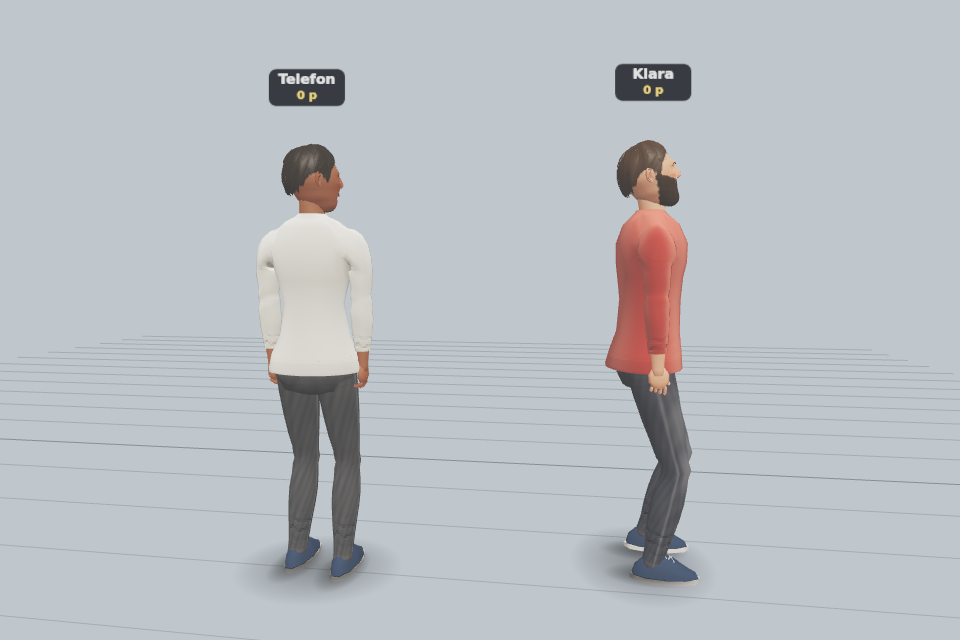
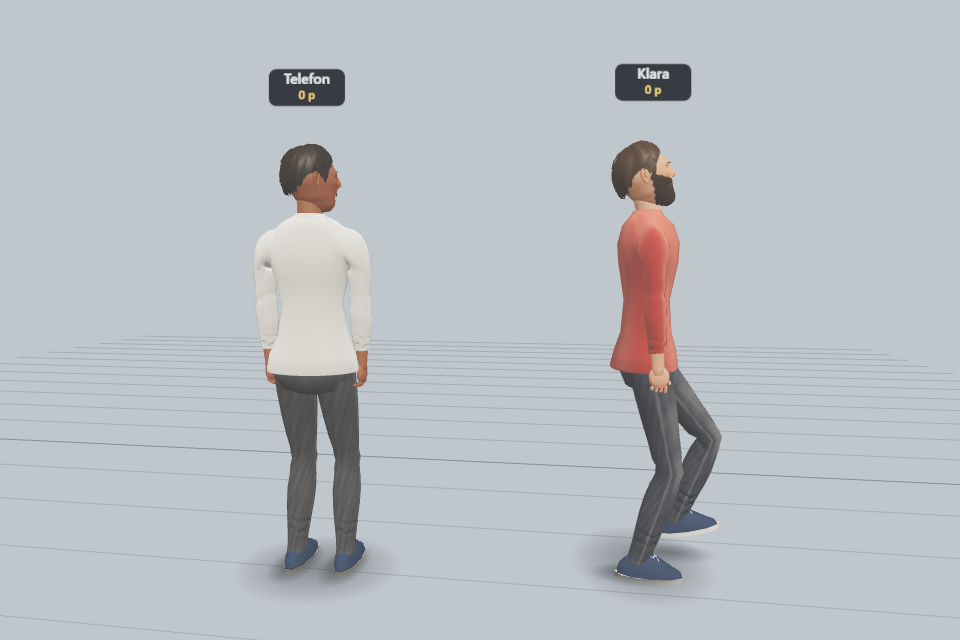
Verify both Windows browser views and the physical PIE room in one three-client run (Refs #2292)

diff --git a/unreal/Launcher.Tests/PlayerBridgeTests.cs b/unreal/Launcher.Tests/PlayerBridgeTests.cs
@@ -150,6 +150,7 @@ public sealed class PlayerBridgeTests
             CreateNoWindow = true,
             RedirectStandardOutput = true
         };
+        start.Environment["LUNDEN_DEV_LOOPBACK"] = "1";
         start.ArgumentList.Add("cloudflare/dev.mjs");
         start.ArgumentList.Add(port.ToString(CultureInfo.InvariantCulture));
         using var worker = Process.Start(start)!;

diff --git a/docs/verification/2292/README.md b/docs/verification/2292/README.md
@@ -6,6 +6,10 @@ Bilden kommer från UnrealEditor-Cmd 5.8.4-58902052 på Windows 11. I samma loka
 
 ![Webbklienten Dator ser Telefon och Windows-spelaren Klara](native-room-desktop.png)
 
-På den fysiska testmaskinen kördes Unreal på Windows. Launcherkomponenterna PlayerBridge och PlayerRoom kördes från samma källfiler med .NET 10 i WSL, där även den lokala Workern och Chromium med dator- och telefonprofil kördes. Windows App Control blockerade den lokalt byggda osignerade testassemblyn. På GitHubs Windows-runner verifierades Windows-launcherns WebSocket och filtransport mot de båda webbprofilerna. [Windows-körning](https://github.com/solwation/lunden-3d-apartment/actions/runs/44931631131)
+![Telefonprofilen ser Klara och Dator](native-room-touch.png)
+
+På den fysiska testmaskinen kördes Unreal och båda Chromium-profilerna i Windows. Telefonprofilen hade pekinmatning och 412 × 839 CSS-pixlar. För vardera webbilden doldes en avatarkropp i taget i en separat referensrendering. På telefonen ändrades 11 200 respektive 12 373 pixlar i de två bålområdena. Alla tre bilder kommer från samma godkända rumskörning.
+
+Launcherkomponenterna PlayerBridge och PlayerRoom kördes från samma källfiler med .NET 10 i WSL, tillsammans med den lokala Workern. Webbläsarna anslöt till Workerns uttryckliga IPv4-loopbackadress. Windows App Control blockerade den lokalt byggda osignerade testassemblyn. På GitHubs Windows-runner verifierades Windows-launcherns WebSocket och filtransport mot de båda webbprofilerna. [Windows-körning](https://github.com/solwation/lunden-3d-apartment/actions/runs/44931631131)
 
 Tiozonsexporten verifierades före och efter kopieringen till Windows. Båda nätverkskomponenterna, fjärravataren, händelselyssnaren, de två StringTable-tillgångarna och produktionsspelaren byggdes och sparades. Spelarens kontroll i ny editorprocess passerade. Alla tre testerna i `Editor.Python.Lunden.test_network` passerade med noll varningar, och samtliga 411 Worker-tester passerade i Node.
